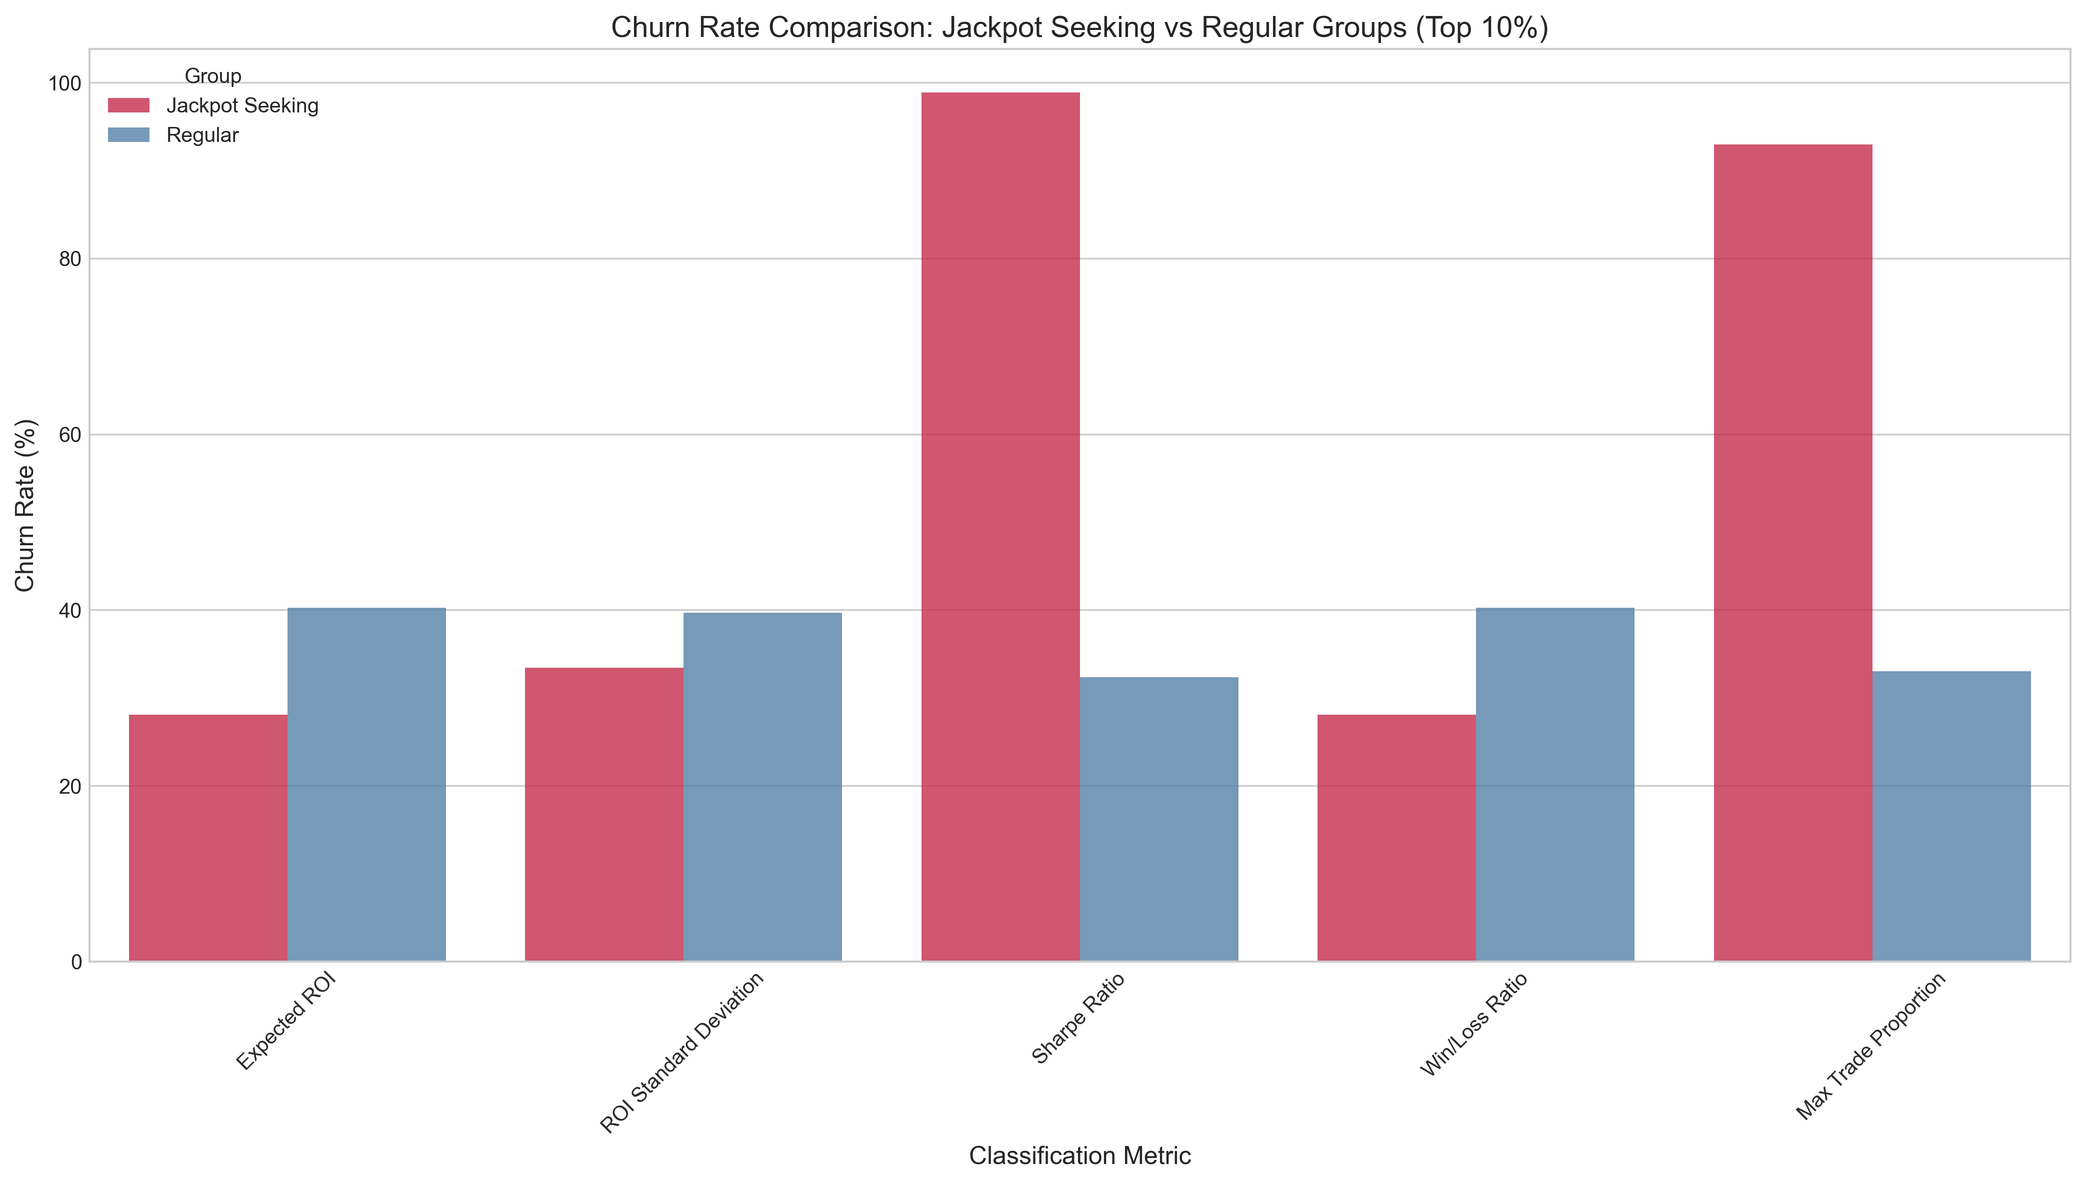
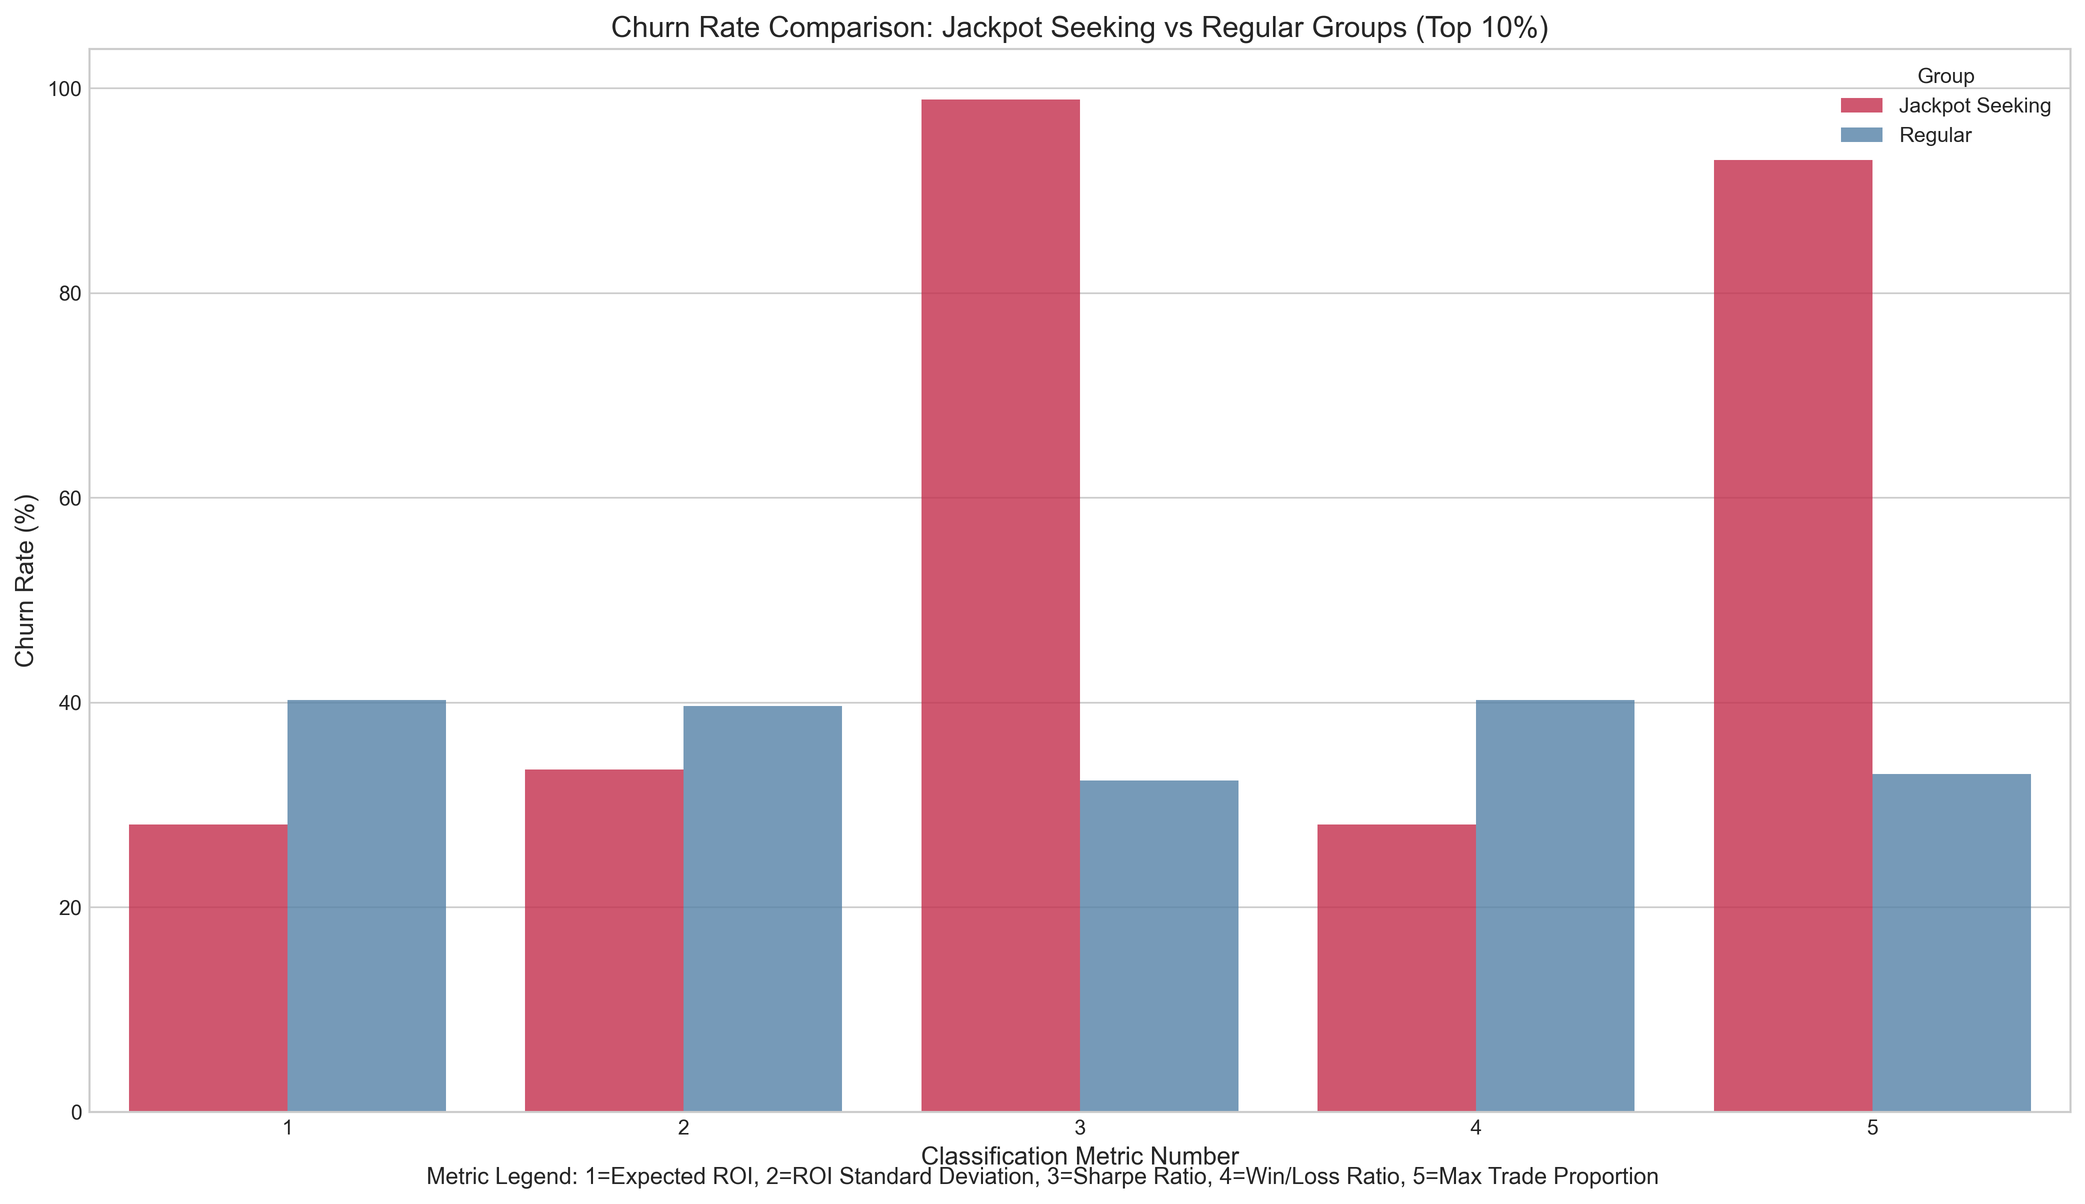
지표 번호 매핑을 추가하여 그래프 가독성 향상

diff --git a/jackpot/analysis/source_code/jackpot_advanced_analysis.py b/jackpot/analysis/source_code/jackpot_advanced_analysis.py
@@ -23,7 +23,7 @@ sns.set_palette("Set2")
 # 경로 설정 개선 - 절대 경로 사용
 base_dir = os.path.dirname(os.path.dirname(os.path.dirname(os.path.abspath(__file__))))
 data_path = os.path.join(base_dir, 'query', 'query_result', 'jackpot_criteria_3822.csv')
-REPORT_DIR = os.path.join(os.path.dirname(os.path.dirname(os.path.abspath(__file__))), 'report', 'image')
+REPORT_DIR = os.path.join(os.path.dirname(os.path.dirname(os.path.abspath(__file__))), "visualization")
 
 print(f"Using data file: {data_path}")
 print(f"Saving results to: {REPORT_DIR}")
@@ -251,6 +251,16 @@ gs = gridspec.GridSpec(3, 2)
 ax1 = plt.subplot(gs[0, :])
 comparison_data = []
 
+# 지표와 번호 매핑 정의
+metric_numbers = {metrics[i]: f'{i+1}' for i in range(len(metrics))}
+metric_mapping = {f'{i+1}': metrics[i] for i in range(len(metrics))}
+metric_mapping_full = {f'{i+1}': metrics_labels[metrics[i]] for i in range(len(metrics))}
+
+# 매핑 정보 출력
+print("\n지표-번호 매핑:")
+for num, metric in metric_mapping_full.items():
+    print(f"{num}: {metric}")
+
 for metric in metrics:
     jp_means = [group_stats[10][metric][f'jackpot_mean_{m}'] for m in metrics]
     non_jp_means = [group_stats[10][metric][f'non_jackpot_mean_{m}'] for m in metrics]
@@ -260,14 +270,16 @@ for metric in metrics:
         comparison_data.append({
             'Classification Metric': metrics_labels[metric],
             'Group': 'Jackpot Seeking',
-            'Metric': metrics_labels[m],
-            'Value': jp_means[i]
+            'Metric': metric_numbers[m],  # 번호로 변경
+            'Value': jp_means[i],
+            'Original_Metric': metrics_labels[m]  # 원래 지표명 저장
         })
         comparison_data.append({
             'Classification Metric': metrics_labels[metric],
             'Group': 'Regular',
-            'Metric': metrics_labels[m],
-            'Value': non_jp_means[i]
+            'Metric': metric_numbers[m],  # 번호로 변경
+            'Value': non_jp_means[i],
+            'Original_Metric': metrics_labels[m]  # 원래 지표명 저장
         })
 
 comparison_df = pd.DataFrame(comparison_data)
@@ -289,24 +301,41 @@ g = sns.catplot(
 )
 
 g.set_titles("{col_name} Based Classification")
-g.set_axis_labels("", "Average Value")
+g.set_axis_labels("Metric Number", "Average Value")
+
+# 범례 추가
+for ax in g.axes.flat:
+    ax.legend(title='Group')
+
+# 그림 제목 및 범례 설명 추가
 g.fig.suptitle('Comparison of Average Metrics: Jackpot Seeking vs Regular Groups (Top 10%)', fontsize=16, y=1.02)
+
+# 그림 아래에 지표 번호 설명 추가
+metric_legend = "\nMetric Legend: "
+for num, metric in metric_mapping_full.items():
+    metric_legend += f"{num}={metric}, "
+metric_legend = metric_legend[:-2]  # 마지막 쉼표 제거
+
+plt.figtext(0.5, -0.02, metric_legend, ha='center', fontsize=11, wrap=True)
+plt.tight_layout()
 g.savefig(f'{REPORT_DIR}/jackpot_percentile_classification_comparison.png', dpi=300, bbox_inches='tight')
 
-# 이탈률 비교
+# 이탈률 비교 차트도 번호로 변경
 plt.figure(figsize=(14, 8))
 churn_data = []
 
 for metric in metrics:
     churn_data.append({
-        'Classification Metric': metrics_labels[metric],
+        'Classification Metric': metric_numbers[metric],  # 번호로 변경
         'Group': 'Jackpot Seeking',
-        'Churn Rate (%)': group_stats[10][metric]['jackpot_churn_rate']
+        'Churn Rate (%)': group_stats[10][metric]['jackpot_churn_rate'],
+        'Original_Metric': metrics_labels[metric]  # 원래 지표명 저장
     })
     churn_data.append({
-        'Classification Metric': metrics_labels[metric],
+        'Classification Metric': metric_numbers[metric],  # 번호로 변경
         'Group': 'Regular',
-        'Churn Rate (%)': group_stats[10][metric]['non_jackpot_churn_rate']
+        'Churn Rate (%)': group_stats[10][metric]['non_jackpot_churn_rate'],
+        'Original_Metric': metrics_labels[metric]  # 원래 지표명 저장
     })
 
 churn_df = pd.DataFrame(churn_data)
@@ -322,9 +351,12 @@ sns.barplot(
 
 plt.title('Churn Rate Comparison: Jackpot Seeking vs Regular Groups (Top 10%)', fontsize=14)
 plt.ylabel('Churn Rate (%)', fontsize=12)
-plt.xlabel('Classification Metric', fontsize=12)
-plt.xticks(rotation=45)
+plt.xlabel('Classification Metric Number', fontsize=12)
+plt.xticks(rotation=0)
 plt.legend(title='Group')
+
+# 그림 아래에 지표 번호 설명 추가
+plt.figtext(0.5, 0.01, metric_legend, ha='center', fontsize=11, wrap=True)
 plt.tight_layout()
 plt.savefig(f'{REPORT_DIR}/jackpot_percentile_churn_comparison.png', dpi=300, bbox_inches='tight')
 
@@ -421,6 +453,14 @@ cluster_summary['Churn Rate (%)'] = df_clean.groupby('cluster').apply(
 # 클러스터 시각화
 plt.figure(figsize=(20, 16))
 
+# 클러스터 레이블을 의미 있는 이름으로 매핑
+cluster_names = {
+    0: "Skilled Investors",
+    1: "Cautious/Conservative",
+    2: "Unsuccessful Gamblers", 
+    3: "Jackpot Seekers"
+}
+
 # 선별된 주요 특성 3개 간 3D 산점도
 from mpl_toolkits.mplot3d import Axes3D
 ax = plt.subplot(2, 2, 1, projection='3d')
@@ -437,7 +477,10 @@ ax.set_xlabel(metrics_labels['ROI_STANDARD_DEVIATION'], fontsize=10)
 ax.set_ylabel(metrics_labels['EXPECTED_ROI'], fontsize=10)
 ax.set_zlabel(metrics_labels['MAX_TRADE_PROPORTION'], fontsize=10)
 plt.title('3D Visualization of Clusters', fontsize=14)
-plt.colorbar(scatter, ax=ax, label='Cluster')
+cbar = plt.colorbar(scatter, ax=ax, label='Cluster')
+# 컬러바 틱 레이블 변경
+cbar.set_ticks(range(optimal_k))
+cbar.set_ticklabels([cluster_names[i] for i in range(optimal_k)])
 
 # 클러스터 별 각 지표 평균값 비교 (방사형 차트)
 plt.subplot(2, 2, 2, polar=True)
@@ -456,25 +499,27 @@ for i in range(optimal_k):
     values_norm = [(val - min_vals[m]) / (max_vals[m] - min_vals[m]) for m, val in zip(metrics, values)]
     values_norm += values_norm[:1]  # 원형을 완성하기 위해
     
-    ax.plot(angles, values_norm, linewidth=2, linestyle='solid', label=f'Cluster {i}')
+    ax.plot(angles, values_norm, linewidth=2, linestyle='solid', label=cluster_names[i])
     ax.fill(angles, values_norm, alpha=0.1)
 
 plt.xticks(angles[:-1], categories, fontsize=10)
 plt.title('Cluster Profiles (Normalized)', fontsize=14)
 plt.legend(loc='upper right', bbox_to_anchor=(0.1, 0.1))
 
-# 클러스터별 지갑 수와 이탈률
+# 클러스터별 지갑 수와 이탈률 - x축 레이블을 의미 있는 이름으로 변경
 ax1 = plt.subplot(2, 2, 3)
-cluster_summary['Wallet Count'].plot(kind='bar', ax=ax1, color='skyblue', alpha=0.7)
+bars = cluster_summary['Wallet Count'].plot(kind='bar', ax=ax1, color='skyblue', alpha=0.7)
 ax1.set_title('Number of Wallets per Cluster', fontsize=14)
 ax1.set_xlabel('Cluster', fontsize=12)
 ax1.set_ylabel('Count', fontsize=12)
+ax1.set_xticklabels([cluster_names[i] for i in range(optimal_k)], rotation=45, ha='right')
 
 ax2 = plt.subplot(2, 2, 4)
 cluster_summary['Churn Rate (%)'].plot(kind='bar', ax=ax2, color='salmon', alpha=0.7)
 ax2.set_title('Churn Rate per Cluster', fontsize=14)
 ax2.set_xlabel('Cluster', fontsize=12)
 ax2.set_ylabel('Churn Rate (%)', fontsize=12)
+ax2.set_xticklabels([cluster_names[i] for i in range(optimal_k)], rotation=45, ha='right')
 
 plt.tight_layout()
 plt.savefig(f'{REPORT_DIR}/jackpot_cluster_analysis.png', dpi=300, bbox_inches='tight')
@@ -484,7 +529,7 @@ plt.figure(figsize=(14, 8))
 cluster_mean_df = pd.DataFrame(columns=['Cluster'] + metrics)
 
 for i in range(optimal_k):
-    row_data = {'Cluster': f'Cluster {i}'}
+    row_data = {'Cluster': cluster_names[i]}
     for m in metrics:
         row_data[m] = cluster_centers.iloc[i][m]
     cluster_mean_df = pd.concat([cluster_mean_df, pd.DataFrame([row_data])], ignore_index=True)

diff --git a/jackpot/analysis/report/jackpot_criteria_eda.md b/jackpot/analysis/report/jackpot_criteria_eda.md
@@ -24,7 +24,7 @@
 ## 3. 분포 분석
 
 ### 기대 수익률(EXPECTED_ROI)
-![기대 수익률 분포](./image/EXPECTED_ROI_distribution.png)
+![기대 수익률 분포](../visualization/EXPECTED_ROI_distribution.png)
 
 기대 수익률은 트레이더가 얻을 것으로 예상되는 평균 수익률을 나타냅니다. 분포 특성:
 - 분포 형태: 극단적인 양의 Skewness(29.10)로 오른쪽으로 매우 치우친 분포
@@ -32,7 +32,7 @@
 - 잭팟 추구형 특성: 높은 기대 수익률 값은 잭팟을 추구하는 행동 패턴을 나타낼 수 있음
 
 ### ROI 표준편차(ROI_STANDARD_DEVIATION)
-![ROI 표준편차 분포](./image/ROI_STANDARD_DEVIATION_distribution.png)
+![ROI 표준편차 분포](../visualization/ROI_STANDARD_DEVIATION_distribution.png)
 
 ROI 표준편차는 수익률의 변동성을 나타냅니다. 분포 특성:
 - 분포 형태: 매우 강한 양의 Skewness(36.11)로 극단적으로 치우친 분포
@@ -40,7 +40,7 @@ ROI 표준편차는 수익률의 변동성을 나타냅니다. 분포 특성:
 - 잭팟 추구형 특성: 높은 표준편차는 위험을 감수하는 트레이딩 패턴을 나타냄
 
 ### 샤프 비율(SHARPE_RATIO)
-![샤프 비율 분포](./image/SHARPE_RATIO_distribution.png)
+![샤프 비율 분포](../visualization/SHARPE_RATIO_distribution.png)
 
 샤프 비율은 위험 대비 수익률을 나타내는 지표입니다. 분포 특성:
 - 분포 형태: 음의 Skewness(-8.94)로 왼쪽으로 치우친 분포
@@ -48,7 +48,7 @@ ROI 표준편차는 수익률의 변동성을 나타냅니다. 분포 특성:
 - 잭팟 추구형 특성: 낮은 샤프 비율은 높은 위험 대비 낮은 수익을 나타내며, 잭팟 추구형 특성과 연관됨
 
 ### 승패 비율(WIN_LOSS_RATIO)
-![승패 비율 분포](./image/WIN_LOSS_RATIO_distribution.png)
+![승패 비율 분포](../visualization/WIN_LOSS_RATIO_distribution.png)
 
 승패 비율은 성공한 거래와 실패한 거래의 비율을 나타냅니다. 분포 특성:
 - 분포 형태: 강한 양의 Skewness(12.52)
@@ -56,7 +56,7 @@ ROI 표준편차는 수익률의 변동성을 나타냅니다. 분포 특성:
 - 잭팟 추구형 특성: 극단적으로 높거나 낮은 승패 비율은 특정 전략의 존재를 시사함
 
 ### 최대 거래 비중(MAX_TRADE_PROPORTION)
-![최대 거래 비중 분포](./image/MAX_TRADE_PROPORTION_distribution.png)
+![최대 거래 비중 분포](../visualization/MAX_TRADE_PROPORTION_distribution.png)
 
 최대 거래 비중은 전체 거래 중 가장 큰 비중을 차지하는 단일 거래의 비율입니다. 분포 특성:
 - 분포 형태: 양의 Skewness(1.81)를 보이지만, 데이터는 주로 낮은 값 쪽(왼쪽)에 집중되어 있고 오른쪽으로 긴 꼬리를 가짐
@@ -64,7 +64,7 @@ ROI 표준편차는 수익률의 변동성을 나타냅니다. 분포 특성:
 - 잭팟 추구형 특성: 높은 최대 거래 비중은 '올인' 거래 패턴을 나타내며, 잭팟을 추구하는 행동과 연관됨
 
 ### 전체 지표 분포 비교
-![잭팟 지표 분포](./image/jackpot_criteria_distributions.png)
+![잭팟 지표 분포](../visualization/jackpot_criteria_distributions.png)
 
 모든 지표의 분포를 한눈에 비교한 결과, ROI 표준편차와 기대 수익률이 가장 큰 Skewness를 보이며, 최대 거래 비중은 왼쪽(낮은 값)에 데이터가 집중되고 오른쪽으로 꼬리가 있는 형태를 보입니다.
 
@@ -91,7 +91,7 @@ ROI 표준편차는 수익률의 변동성을 나타냅니다. 분포 특성:
 - 전체 지갑 수: 3,823개
 
 ## 5. 지갑 상태별 분석
-![지갑 상태별 지표 분포](./image/jackpot_criteria_by_wallet_status.png)
+![지갑 상태별 지표 분포](../visualization/jackpot_criteria_by_wallet_status.png)
 
 지갑 상태(active vs churned)에 따른 지표 차이를 분석한 결과:
 - 생성된 박스플롯 시각화에서 확인할 수 있듯이 활성 지갑과 이탈 지갑 간에 뚜렷한 차이가 관찰됩니다.
@@ -99,8 +99,8 @@ ROI 표준편차는 수익률의 변동성을 나타냅니다. 분포 특성:
 - 샤프 비율은 활성 지갑에서 더 높게 나타나며, 이는 위험 대비 수익률이 더 효율적임을 의미합니다.
 
 ## 6. 지표 간 상관관계
-![피어슨 상관관계 히트맵](./image/jackpot_pearson_correlation.png)
-![스피어만 상관관계 히트맵](./image/jackpot_spearman_correlation.png)
+![피어슨 상관관계 히트맵](../visualization/jackpot_pearson_correlation.png)
+![스피어만 상관관계 히트맵](../visualization/jackpot_spearman_correlation.png)
 
 지표 간 상관관계 분석 결과:
 - **피어슨 상관계수**와 **스피어만 상관계수** 모두 분석하여 선형 및 비선형 관계를 파악했습니다.
@@ -109,7 +109,7 @@ ROI 표준편차는 수익률의 변동성을 나타냅니다. 분포 특성:
 - 승패 비율(WIN_LOSS_RATIO)과 기대 수익률 사이에도 강한 양의 상관관계(피어슨: 0.62, 스피어만: 0.74)가 있어, 승리 비율이 높은 트레이더가 더 높은 수익률을 얻는 경향이 있습니다.
 - ROI 표준편차는 다른 지표들과 상대적으로 독립적으로 움직이는 경향이 있습니다.
 
-![산점도 행렬](./image/jackpot_scatter_matrix.png)
+![산점도 행렬](../visualization/jackpot_scatter_matrix.png)
 
 주요 지표 간 산점도 행렬을 통해 살펴보면:
 - 기대 수익률과 최대 거래 비중 사이의 음의 상관관계가 명확하게 나타납니다.
@@ -120,7 +120,15 @@ ROI 표준편차는 수익률의 변동성을 나타냅니다. 분포 특성:
 
 각 지표별 상위 5% 및 10%를 기준으로 잭팟 추구 그룹을 식별하고 분석했습니다.
 
-![분류 비교](./image/jackpot_percentile_classification_comparison.png)
+### 지표 번호 매핑
+분석 지표가 많아 그래프 가독성을 높이기 위해 다음과 같이 번호로 매핑하였습니다:
+1. 기대 수익률(Expected ROI)
+2. ROI 표준편차(ROI Standard Deviation)
+3. 샤프 비율(Sharpe Ratio)
+4. 승패 비율(Win/Loss Ratio)
+5. 최대 거래 비중(Max Trade Proportion)
+
+![분류 비교](../visualization/jackpot_percentile_classification_comparison.png)
 
 ### 상위 10% 기준 분류 결과
 - **기대 수익률 기준**: 상위 10%(0.0055 이상) 그룹은 평균 이탈률 28.09%(일반 그룹 40.25%)로 오히려 더 안정적이며, 평균 샤프 비율 0.17로 더 효율적인 투자 패턴을 보였습니다.
@@ -129,9 +137,9 @@ ROI 표준편차는 수익률의 변동성을 나타냅니다. 분포 특성:
 - **승패 비율 기준**: 상위 10%(0.9388 이상) 그룹은 이탈률이 28.09%로 낮고, 평균 기대 수익률 0.03으로 수익성이 있으나 잭팟 추구보다는 안정적 투자 패턴에 가깝습니다.
 - **최대 거래 비중 기준**: 상위 10%(0.4726 이상) 그룹은 이탈률이 92.98%로 매우 높고, 평균 샤프 비율 -5.51로 매우 낮아 잭팟 추구형 특성이 가장 뚜렷했습니다.
 
-![이탈률 비교](./image/jackpot_percentile_churn_comparison.png)
+![이탈률 비교](../visualization/jackpot_percentile_churn_comparison.png)
 
-이탈률 비교에서도 샤프 비율 하위그룹과 최대 거래 비중 상위그룹이 월등히 높은 이탈률을 보여 잭팟 추구 투자자의 행동 패턴을 반영합니다.
+이탈률 비교에서도 3번 지표(샤프 비율) 하위그룹과 5번 지표(최대 거래 비중) 상위그룹이 월등히 높은 이탈률을 보여 잭팟 추구 투자자의 행동 패턴을 반영합니다.
 
 통계적 유의성 검정 결과, 모든 그룹 간 비교에서 대부분의 지표에서 유의미한 차이(p < 0.05)가 확인되었습니다.
 
@@ -139,21 +147,21 @@ ROI 표준편차는 수익률의 변동성을 나타냅니다. 분포 특성:
 
 K-means 알고리즘을 사용하여 5개 지표를 기반으로 군집화를 수행했습니다.
 
-![최적 군집 수](./image/jackpot_cluster_optimal_k.png)
+![최적 군집 수](../visualization/jackpot_cluster_optimal_k.png)
 
 Elbow method와 Silhouette score를 통해 최적의 군집 수를 결정했으며, 분석 결과 4개의 군집이 적합한 것으로 나타났습니다.
 
-![군집 특성](./image/jackpot_cluster_analysis.png)
+![군집 특성](../visualization/jackpot_cluster_analysis.png)
 
 ### 군집별 특성
-- **군집 0** (571개 지갑, 이탈률 29.25%): 높은 EXPECTED_ROI(0.0160)과 WIN_LOSS_RATIO(1.11), 적절한 ROI_STANDARD_DEVIATION(0.40)를 가진 건전한 투자 그룹
-- **군집 1** (779개 지갑, 이탈률 10.78%): 낮은 ROI_STANDARD_DEVIATION(0.04), 중간 정도의 MAX_TRADE_PROPORTION(0.11)을 가진 보수적 투자 그룹
-- **군집 2** (1,604개 지갑, 이탈률 33.92%): 부정적 EXPECTED_ROI(-0.21), 높은 ROI_STANDARD_DEVIATION(0.39)를 가진 손실형 투자 그룹
-- **군집 3** (597개 지갑, 이탈률 98.99%): 극도로 낮은 SHARPE_RATIO(-5.99), 높은 MAX_TRADE_PROPORTION(0.48), 매우 낮은 WIN_LOSS_RATIO(0.03)을 가진 전형적인 잭팟 추구 그룹
+- **군집 0 (숙련된 투자자, Skilled Investors)** (571개 지갑, 이탈률 29.25%): 높은 EXPECTED_ROI(0.0160)과 WIN_LOSS_RATIO(1.11), 적절한 ROI_STANDARD_DEVIATION(0.40)를 가진 건전한 투자 그룹
+- **군집 1 (신중한 트레이더, Cautious/Conservative)** (779개 지갑, 이탈률 10.78%): 낮은 ROI_STANDARD_DEVIATION(0.04), 중간 정도의 MAX_TRADE_PROPORTION(0.11)을 가진 보수적 투자 그룹
+- **군집 2 (실패한 도박꾼, Unsuccessful Gamblers)** (1,604개 지갑, 이탈률 33.92%): 부정적 EXPECTED_ROI(-0.21), 높은 ROI_STANDARD_DEVIATION(0.39)를 가진 손실형 투자 그룹
+- **군집 3 (잭팟 추구자, Jackpot Seekers)** (597개 지갑, 이탈률 98.99%): 극도로 낮은 SHARPE_RATIO(-5.99), 높은 MAX_TRADE_PROPORTION(0.48), 매우 낮은 WIN_LOSS_RATIO(0.03)을 가진 전형적인 잭팟 추구 그룹
 
-![군집 히트맵](./image/jackpot_cluster_heatmap.png)
+![군집 히트맵](../visualization/jackpot_cluster_heatmap.png)
 
-군집 3이 전형적인 잭팟 추구형 투자자 특성을 가장 뚜렷하게 보여주며, 이 그룹의 특성은 다음과 같습니다:
+군집 3(잭팟 추구자)이 전형적인 잭팟 추구형 투자자 특성을 가장 뚜렷하게 보여주며, 이 그룹의 특성은 다음과 같습니다:
 - 매우 부정적인 EXPECTED_ROI(-0.76)
 - 낮은 ROI_STANDARD_DEVIATION(0.19)
 - 극도로 낮은 SHARPE_RATIO(-5.99)
